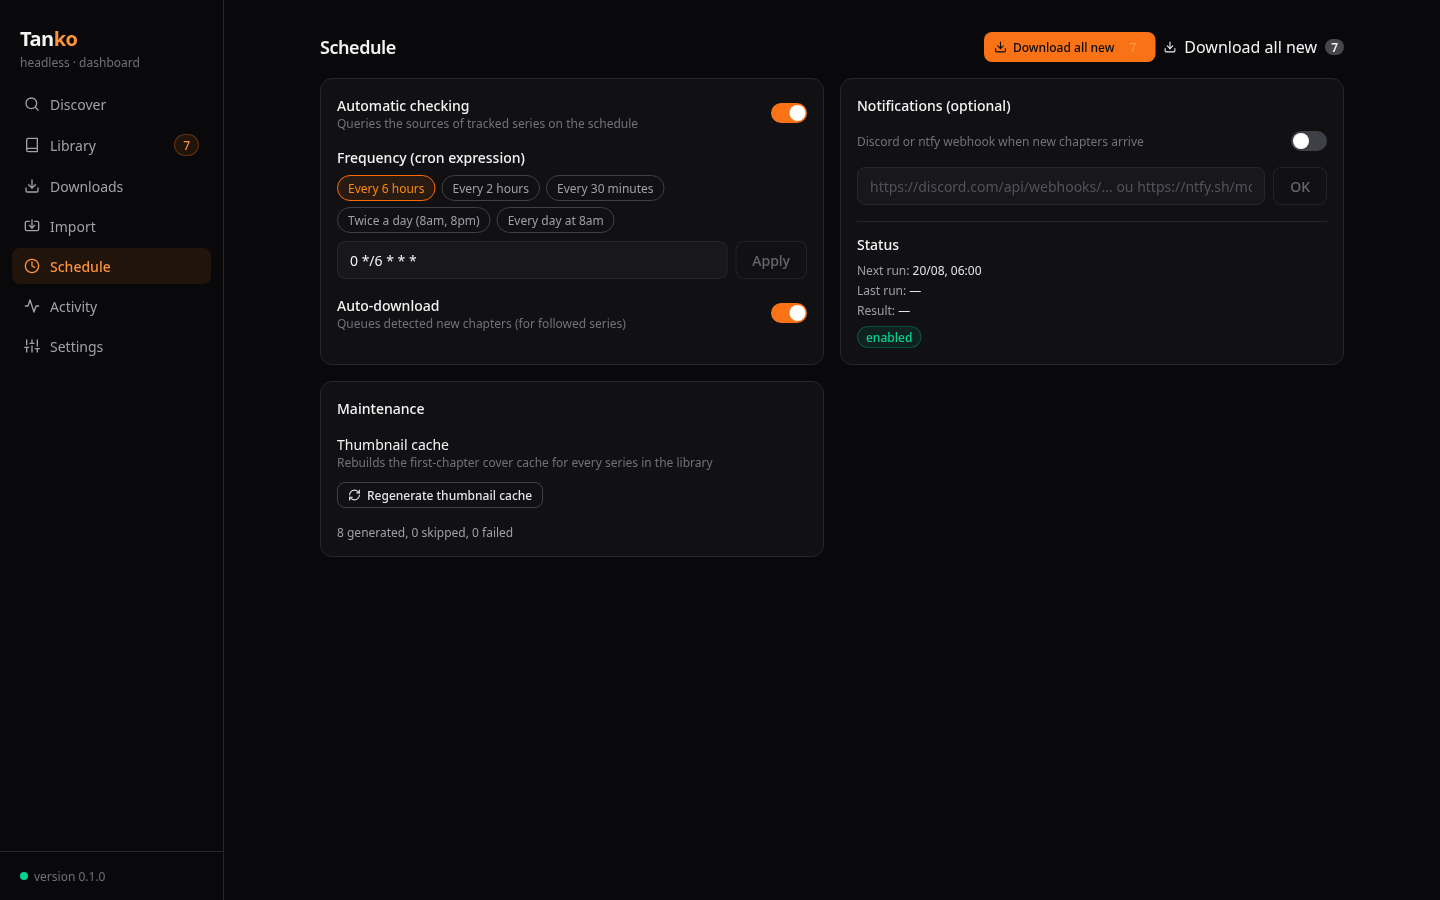
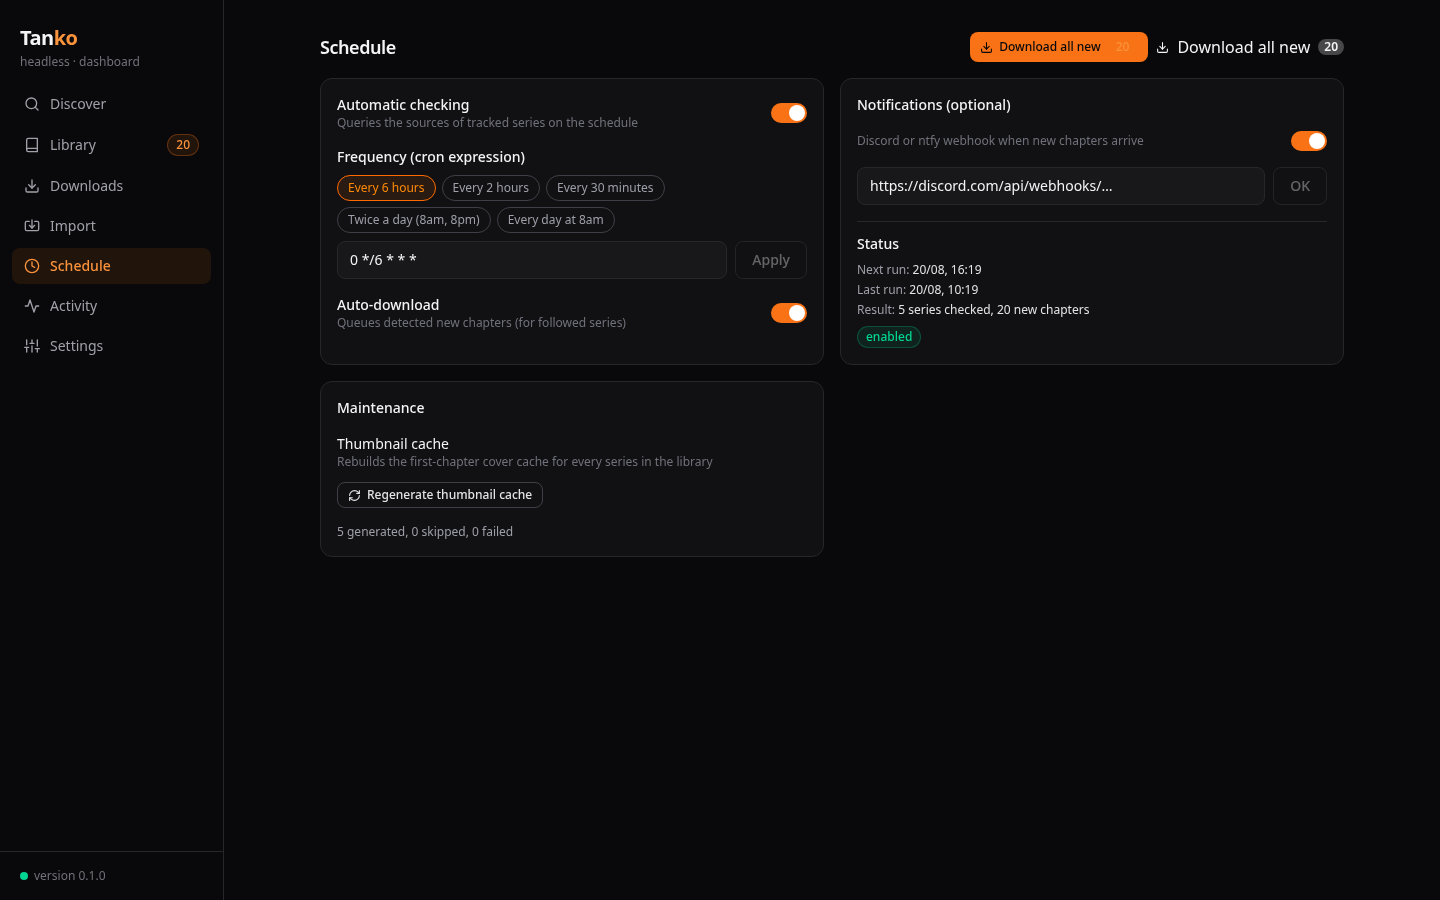
Bibliothèque : rangées alignées (titre/stats 2 lignes réservées) et menu ⋯ pour les actions secondaires
- Cartes : titre min-h-[2.5em], stats min-h 2 lignes -> grille parfaitement alignée
- Actions : 3 boutons inline (check, download, chapitres) + menu overflow avec libellés (rematch, retour source précédente, supprimer)
- Mode compact : 2 boutons inline, « Chapitres » passe dans le menu
- Le menu déborde la carte (overflow-hidden déplacé sur le cover), fermeture Escape/clic-extérieur
- README : screenshots régénérés avec de vraies covers (domaine public) via scripts/screenshots.mjs (npm run screenshots)

diff --git a/packages/dashboard/src/views/Library.tsx b/packages/dashboard/src/views/Library.tsx
@@ -13,6 +13,7 @@ import { ConfirmDialog } from '../components/confirm.js';
 import {
     IconBookmark,
     IconBookmarkFilled,
+    IconDots,
     IconDownload,
     IconEyeOff,
     IconFolder,
@@ -140,7 +141,9 @@ export default function Library({ library, loaded, refreshLibrary }: { library: 
     const [activeFilters, setActiveFilters] = useState<Set<FilterId>>(new Set());
     const [prefs, setPrefs] = useState<DisplayPrefs>(loadPrefs);
     const [prefsOpen, setPrefsOpen] = useState(false);
+    const [menuFor, setMenuFor] = useState<number | null>(null);
     const prefsRef = useRef<HTMLDivElement>(null);
+    const menuRef = useRef<HTMLDivElement>(null);
     const toast = useToast();
     const { t, formatDate } = useI18n();
 
@@ -175,6 +178,25 @@ export default function Library({ library, loaded, refreshLibrary }: { library: 
         document.addEventListener('mousedown', onClick);
         return () => document.removeEventListener('mousedown', onClick);
     }, []);
+
+    // close a card's overflow menu on click-outside or Escape
+    useEffect(() => {
+        if (menuFor === null) return;
+        const onClick = (event: MouseEvent) => {
+            if (menuRef.current && !menuRef.current.contains(event.target as Node)) {
+                setMenuFor(null);
+            }
+        };
+        const onKey = (event: KeyboardEvent) => {
+            if (event.key === 'Escape') setMenuFor(null);
+        };
+        document.addEventListener('mousedown', onClick);
+        document.addEventListener('keydown', onKey);
+        return () => {
+            document.removeEventListener('mousedown', onClick);
+            document.removeEventListener('keydown', onKey);
+        };
+    }, [menuFor]);
 
     useEffect(() => {
         localStorage.setItem(VIEW_KEY, view);
@@ -427,17 +449,65 @@ export default function Library({ library, loaded, refreshLibrary }: { library: 
         </>
     );
 
-    const actionButtons = (entry: LibraryEntryDto) => (
-        <div className="card-actions flex items-center gap-1">
+    /** Primary actions stay inline on the card; rare ones move to the overflow menu. */
+    const primaryActions = (entry: LibraryEntryDto, withChapters = true) => (
+        <>
             <IconButton title={t('library.check')} onClick={() => checkEntry(entry)} loading={busy[`check-${entry.id}`]}>
                 <IconRefresh size={14} />
             </IconButton>
             <IconButton title={t('library.downloadNew')} onClick={() => downloadNew(entry)} disabled={entry.newCount === 0} loading={busy[`dl-${entry.id}`]}>
                 <IconDownload size={14} />
             </IconButton>
-            <IconButton title={expanded === entry.id ? t('library.hide') : t('discover.chapters')} onClick={() => openChapters(entry)}>
-                <IconList size={14} />
-            </IconButton>
+            {withChapters && (
+                <IconButton title={expanded === entry.id ? t('library.hide') : t('discover.chapters')} onClick={() => openChapters(entry)}>
+                    <IconList size={14} />
+                </IconButton>
+            )}
+        </>
+    );
+
+    /** Labeled dropdown for secondary actions (rematch, undo migration, remove/restore). */
+    const actionMenu = (entry: LibraryEntryDto, withChapters = false) => {
+        const item = (icon: React.ReactNode, label: string, onClick: () => void, danger = false, loading = false) => (
+            <button
+                type="button"
+                disabled={loading}
+                onClick={() => {
+                    setMenuFor(null);
+                    onClick();
+                }}
+                className={`flex w-full items-center gap-2.5 rounded-lg px-3 py-2 text-left text-[13px] transition-colors disabled:opacity-50 ${
+                    danger ? 'text-red-400 hover:bg-red-500/10' : 'text-zinc-300 hover:bg-zinc-800'
+                }`}
+            >
+                <span className="flex-none">{loading ? <Spinner size={13} /> : icon}</span>
+                {label}
+            </button>
+        );
+        return (
+            <div className="relative" ref={menuFor === entry.id ? menuRef : undefined}>
+                <IconButton title={t('library.moreActions')} onClick={() => setMenuFor(current => (current === entry.id ? null : entry.id))}>
+                    <IconDots size={14} />
+                </IconButton>
+                {menuFor === entry.id && (
+                    <div className="absolute bottom-8 right-0 z-30 w-48 rounded-xl border border-line bg-surface p-1.5 shadow-xl shadow-black/60">
+                        {withChapters &&
+                            item(<IconList size={14} />, expanded === entry.id ? t('library.hide') : t('discover.chapters'), () => openChapters(entry))}
+                        {item(<IconSearch size={14} />, t('library.rematch'), () => rematch(entry), false, busy[`rematch-${entry.id}`])}
+                        {entry.canRollbackMigration && item(<IconUndo size={14} />, t('library.rollbackMigrationHint'), () => undoMigration(entry))}
+                        <div className="my-1 border-t border-line" />
+                        {showHidden
+                            ? item(<IconRefresh size={14} />, t('library.reestablish'), () => restoreEntry(entry))
+                            : item(<IconTrash size={14} />, t('library.remove'), () => setPendingRemove(entry), true)}
+                    </div>
+                )}
+            </div>
+        );
+    };
+
+    /** List rows have room: everything stays inline. */
+    const secondaryActions = (entry: LibraryEntryDto) => (
+        <>
             <IconButton title={t('library.rematchHint')} onClick={() => rematch(entry)} loading={busy[`rematch-${entry.id}`]}>
                 <IconSearch size={14} />
             </IconButton>
@@ -455,7 +525,7 @@ export default function Library({ library, loaded, refreshLibrary }: { library: 
                     <IconTrash size={14} />
                 </IconButton>
             )}
-        </div>
+        </>
     );
 
     const migrationBanner = (entry: LibraryEntryDto, className = '') =>
@@ -506,8 +576,8 @@ export default function Library({ library, loaded, refreshLibrary }: { library: 
         );
 
     const renderGridCard = (entry: LibraryEntryDto) => (
-        <article key={entry.id} className="overflow-hidden rounded-xl border border-line bg-surface/60 transition-colors hover:border-zinc-600">
-            <div className="relative aspect-[2/3]">
+        <article key={entry.id} className="relative rounded-xl border border-line bg-surface/60 transition-colors hover:border-zinc-600">
+            <div className="relative aspect-[2/3] overflow-hidden rounded-t-xl">
                 <Cover title={entry.title} thumbnail={entry.thumbnail} coverUrl={entry.coverUrl} className="absolute inset-0 h-full w-full" />
                 <div className="absolute left-2 top-2 flex flex-col items-start gap-1">{statusBadges(entry)}</div>
                 <button
@@ -520,17 +590,20 @@ export default function Library({ library, loaded, refreshLibrary }: { library: 
                 </button>
             </div>
             <div className="space-y-1.5 p-3">
-                <div className="line-clamp-2 min-h-8 text-sm font-semibold leading-tight" title={entry.title}>
+                <div className="line-clamp-2 min-h-[2.5em] text-sm font-semibold leading-tight" title={entry.title}>
                     {entry.title}
                 </div>
                 <div className="flex flex-wrap items-center gap-1">
                     {prefs.source && (entry.sourceLabel ? <Badge>{entry.sourceLabel}</Badge> : <Badge tone="red">{t('library.noSourceBadge')}</Badge>)}
                     {!entry.autoDownload && <Badge>{t('library.paused')}</Badge>}
                 </div>
-                <div className="flex flex-wrap items-center gap-x-1.5 gap-y-0.5 text-[11px]">{statLine(entry)}</div>
+                <div className="flex min-h-[2.125rem] flex-wrap content-start items-center gap-x-1.5 gap-y-0.5 text-[11px] leading-4">{statLine(entry)}</div>
                 {prefs.progress && <ProgressBar value={progressOf(entry)} tone={progressTone(entry)} />}
                 {migrationBanner(entry)}
-                <div className="flex justify-end pt-0.5">{actionButtons(entry)}</div>
+                <div className="card-actions flex items-center justify-between pt-0.5">
+                    <div className="flex items-center gap-1">{primaryActions(entry, view !== 'grid-compact')}</div>
+                    {actionMenu(entry, view === 'grid-compact')}
+                </div>
                 {chaptersPanel(entry)}
             </div>
         </article>
@@ -573,7 +646,10 @@ export default function Library({ library, loaded, refreshLibrary }: { library: 
                     onChange={value => toggleFollow(entry, value)}
                     label={entry.autoDownload ? t('library.following') : t('library.paused')}
                 />
-                <div className="flex-none">{actionButtons(entry)}</div>
+                <div className="card-actions flex flex-none items-center gap-1">
+                    {primaryActions(entry)}
+                    {secondaryActions(entry)}
+                </div>
             </div>
             {migrationBanner(entry, 'mt-2')}
             {chaptersPanel(entry, 'mt-2')}

diff --git a/packages/dashboard/src/i18n/fr.ts b/packages/dashboard/src/i18n/fr.ts
@@ -104,6 +104,7 @@ export const fr: typeof import('./en.js').en = {
     'library.hide': 'Masquer',
     'library.rematchHint': 'Chercher la série sur une autre source',
     'library.rematch': 'Re-matcher',
+    'library.moreActions': 'Plus d’actions',
     'library.rollbackMigrationHint': 'Revenir à la source précédente',
     'library.rollbackMigration': '⟲ migration',
     'library.reestablish': 'Rétablir',

diff --git a/packages/dashboard/src/components/icons.tsx b/packages/dashboard/src/components/icons.tsx
@@ -299,3 +299,13 @@ export function IconUndo(props: IconProps) {
         </svg>
     );
 }
+
+export function IconDots(props: IconProps) {
+    return (
+        <svg {...base({ fill: 'currentColor', stroke: 'none', ...props })}>
+            <circle cx="5" cy="12" r="1.8" />
+            <circle cx="12" cy="12" r="1.8" />
+            <circle cx="19" cy="12" r="1.8" />
+        </svg>
+    );
+}

diff --git a/packages/dashboard/src/i18n/en.ts b/packages/dashboard/src/i18n/en.ts
@@ -104,6 +104,7 @@ export const en = {
     'library.hide': 'Hide',
     'library.rematchHint': 'Look for the series on another source',
     'library.rematch': 'Rematch',
+    'library.moreActions': 'More actions',
     'library.rollbackMigrationHint': 'Go back to the previous source',
     'library.rollbackMigration': '⟲ migration',
     'library.reestablish': 'Restore',
